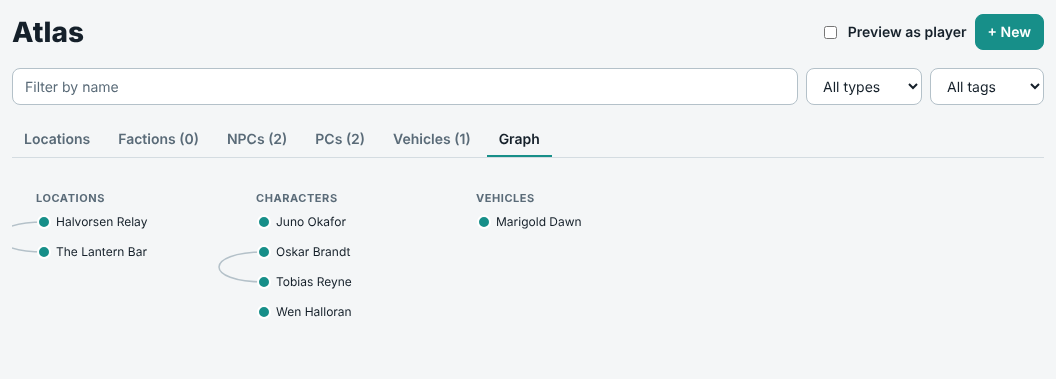
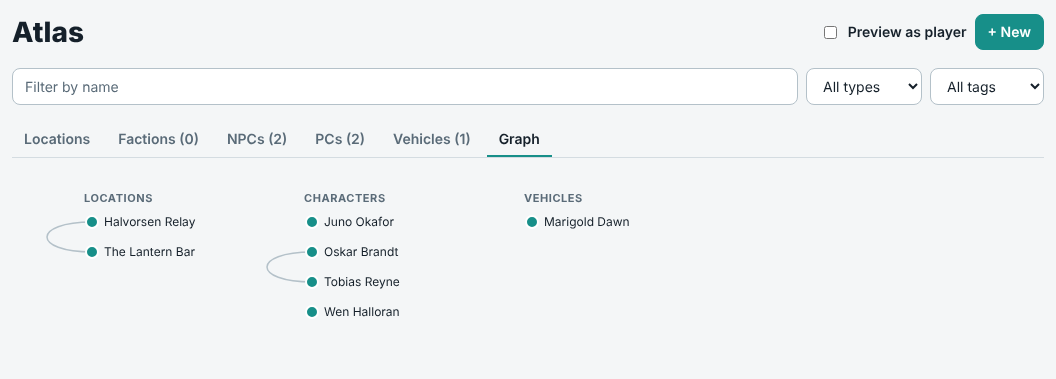
Atlas graph: room on the left for links between entities in one column
A link between two entities of the same kind bows left of its column; in the
first column the curve left the drawing and was cut off.

Claude-Session: https://claude.ai/code/session_01PjoAoT19ZxbEizz2Vq94tE

diff --git a/apps/web/src/features/atlas/RelationshipGraph.tsx b/apps/web/src/features/atlas/RelationshipGraph.tsx
@@ -12,6 +12,9 @@ import { useCampaign, useList } from "../../state/hooks";
 const COL_W = 220;
 const ROW_H = 30;
 const PAD = 24;
+/** An arc between two entities in one column bows left by up to 45px (control points 60px out), so the first column starts after a gutter that holds it. */
+const LOOP = 48;
+const colX = (ci: number) => PAD + LOOP + ci * COL_W;
 const MAX_NODES = 400;
 
 const KIND_ORDER = ["location", "faction", "character", "creature", "job", "vehicle", "item", "clue", "encounter"];
@@ -44,10 +47,10 @@ export function RelationshipGraph({ entities, typeById, module, label, asPlayer 
     kinds.forEach((k, ci) => {
       const col = (byKind.get(k) ?? []).sort((a, b) => a.name.localeCompare(b.name));
       maxRows = Math.max(maxRows, col.length);
-      col.forEach((e, ri) => pos.set(e.id, { x: PAD + ci * COL_W + 8, y: PAD + 28 + ri * ROW_H }));
+      col.forEach((e, ri) => pos.set(e.id, { x: colX(ci) + 8, y: PAD + 28 + ri * ROW_H }));
     });
     const edges = rels.filter((r) => pos.has(r.from) && pos.has(r.to) && (!asPlayer || canSee(r.visibility, { role: "player" })));
-    return { kinds, byKind, pos, edges, width: PAD * 2 + Math.max(1, kinds.length) * COL_W, height: PAD * 2 + 28 + maxRows * ROW_H };
+    return { kinds, byKind, pos, edges, width: PAD * 2 + LOOP + Math.max(1, kinds.length) * COL_W, height: PAD * 2 + 28 + maxRows * ROW_H };
   }, [entities, typeById, rels, asPlayer]);
 
   if (entities.length === 0) return <EmptyState title="Nothing to draw" text="Entities and their relationships appear here." />;
@@ -66,7 +69,7 @@ export function RelationshipGraph({ entities, typeById, module, label, asPlayer 
       {entities.length > MAX_NODES && <p className="cf-muted">Showing the first {MAX_NODES} entities; use the filters to narrow the graph.</p>}
       <svg width={layout.width} height={layout.height} role="img" aria-label="Relationship graph" className="app-graph__svg">
         {layout.kinds.map((k, ci) => (
-          <text key={k} x={PAD + ci * COL_W} y={PAD + 8} className="app-graph__kind">
+          <text key={k} x={colX(ci)} y={PAD + 8} className="app-graph__kind">
             {(module.entityTypes.find((t) => t.kind === k)?.plural ?? k).toUpperCase()}
           </text>
         ))}
